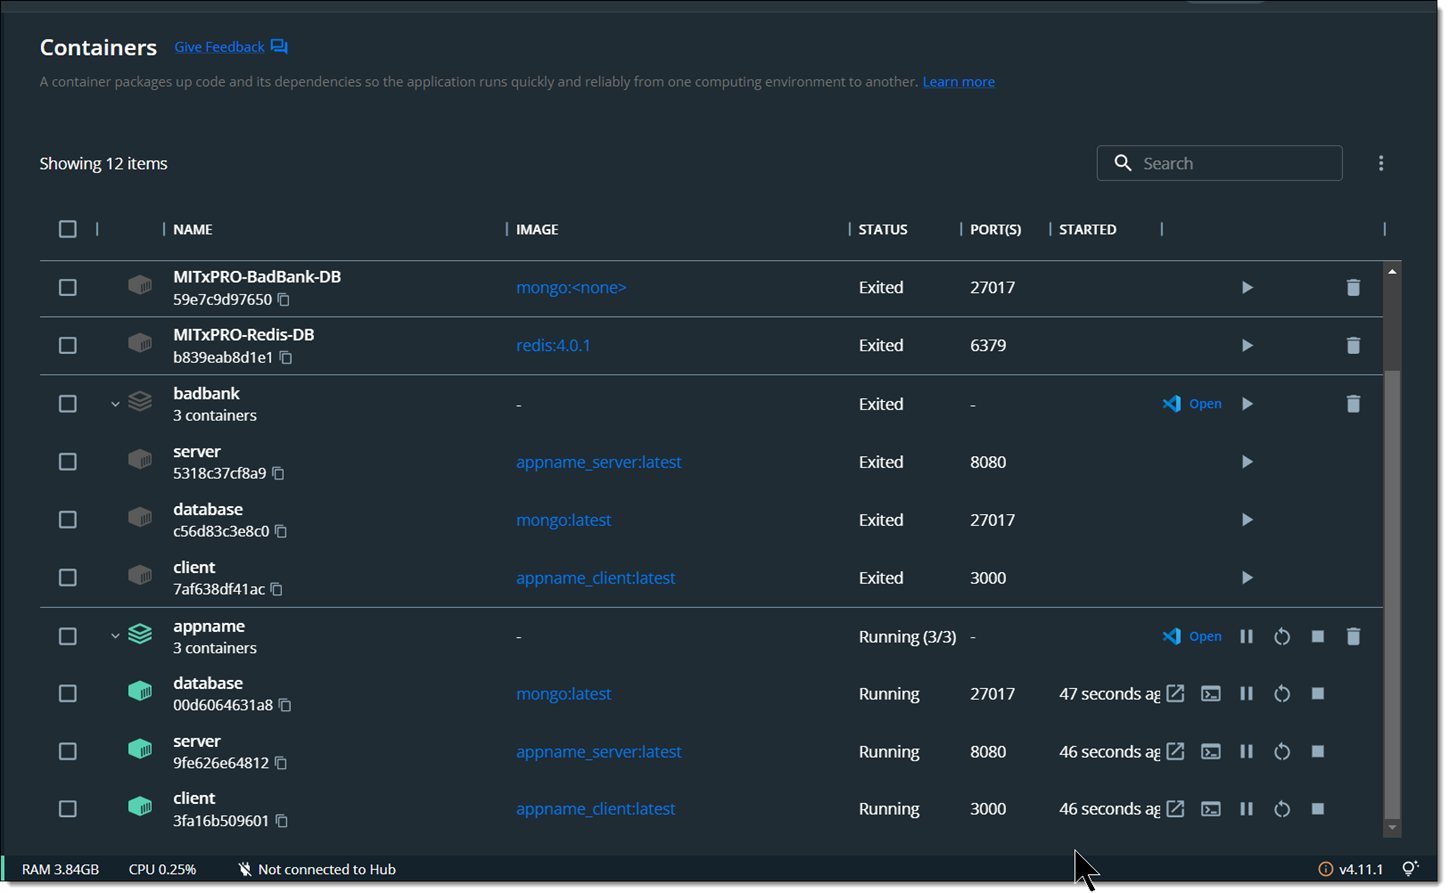
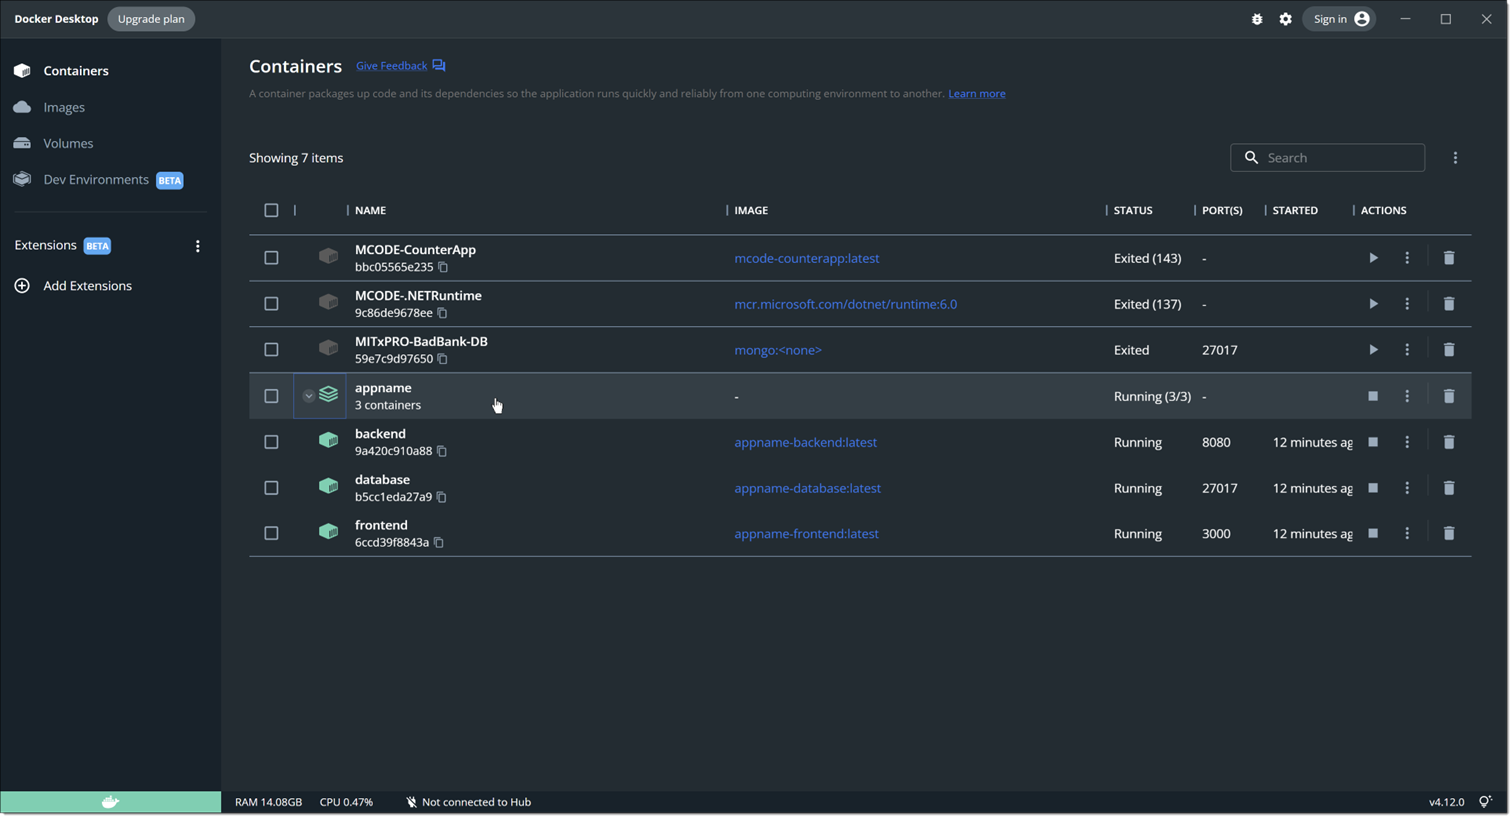
Documentation + App Auto Width

diff --git a/frontend/src/App.css b/frontend/src/App.css
@@ -104,6 +104,7 @@
     background-color: #282c34;
     /* min-height: 100vh; */
     display: flex;
+    width: aut0;
     flex-direction: column;
     align-items: center;
     justify-content: center;
@@ -112,6 +113,7 @@
 }
 
 .App-body {
+    width: auto;
     margin: 20px;
 }
 

diff --git a/README.md b/README.md
@@ -1,51 +1,67 @@
 # MITxPRO-DockerMERN
-A Full-Stack MERN (Mongo-Express-React-Node) Application in Docker Containers.
+A Full-Stack MERN (Mongo-Express-React-Node) Application Template in Docker Containers.
 
-* Define COMPOSE_PROJECT_NAME in .env file or the “docker compose up” command takes the directory name as the app name...
-
-```
-COMPOSE_PROJECT_NAME=appname
-```
-
-
-* Use in the docker-compose.yml file use ‘container_name: <appname>-<containername>' to explicitly name teh sub-containers with a prefix matching the 'appname-' and docker desktop does nice things…
+* Clone this repo and rename to your target App Name.
+* In the .env, .env.development, .env.production and the (3) 'Dockerfile' (Frontend, Backend, and Database)
+  configure all the env vars to your project's values, this is used through to generate image and container names as
+  well as log event identification.
+* It is also used to control the docker-compose activity using teh env var APP_NAME...
 
 ```
-version: '3'
+COMPOSE_PROJECT_NAME=${APP_NAME}
+```
+
+
+* The APP_NAME env var is also used in the docker-compose.yml file to generate consistent ‘container_name: <appname>-<containername>' to explicitly name the sub-containers with a prefix matching the 'appname-' this allows the docker desktop to stack the containers automatically…
+
+```
+#
 services:
-  client:
-    container_name: appname-client
-    # Point build step to the client directory
-    build: '.\client'
+  #
+  #  F R O N T E N D
+  #  ---------------
+  frontend:
+    # frontend, client, app ui
+    container_name: ${APP_NAME}-frontend
+    # use the shared .env file for all 3 Tiers
+    env_file:
+      - .\.env  # shared environment vars for all 3-Tiers
+      - .\.env.${NODE_ENV:-development}  # "development" to override the "production" vars in the 'Dockerfile'
+    build:
+      context: frontend  # build from \frontend
+      args:
+        APP_NAME: ${APP_NAME}
+        NODE_ENV: ${NODE_ENV:-development}
     ports:
-      # Add the port that the client application runs on - (port:port).
-      - '3000:3000'
+      - '${APP_FRONTEND_PORT:-3000}:${APP_FRONTEND_PORT:-3000}'
+    restart: always
+    networks:
+      - react-express  # frontend to backend connection
     depends_on:
-      - server
-  server:
-    container_name: appname-server
-    # Point build step to the server directory
-    build: '.\server'
-    ports:
-      # Add the port that the server application runs on - (port:port).
-      - '8080:8080'
-    depends_on:
-      - mongo
-  mongo:
-    container_name: appname-database
-    image: mongo
-    ports:
-      - '27017:27017'
+      - backend
+  #
+  #  B A C K E N D
+  #  -------------
+  backend:
+    # backend, server, app internals
+    container_name: ${APP_NAME}-backend
+    # use the shared .env file for all 3 Tiers
 ```
-<img src="docker-container-names.png">
+<img src=".\.docker\docker-container-names.png">
 
 
-* To start Client, Server and Database Nodes:
+* To start Frontend/Client, Backend/Server and Database Nodes/Containers:
 ```
 docker compose up
+```
+
+* To start and force a rebuild from current source code:
+```
+docker compose up --build
 ```
 
 * To watch the console of any of the Containers (Client-Server-Database):
 ```
 docker logs -f <container-id>
 ```
+* ...or use the integrated Terminal in VS Code.
